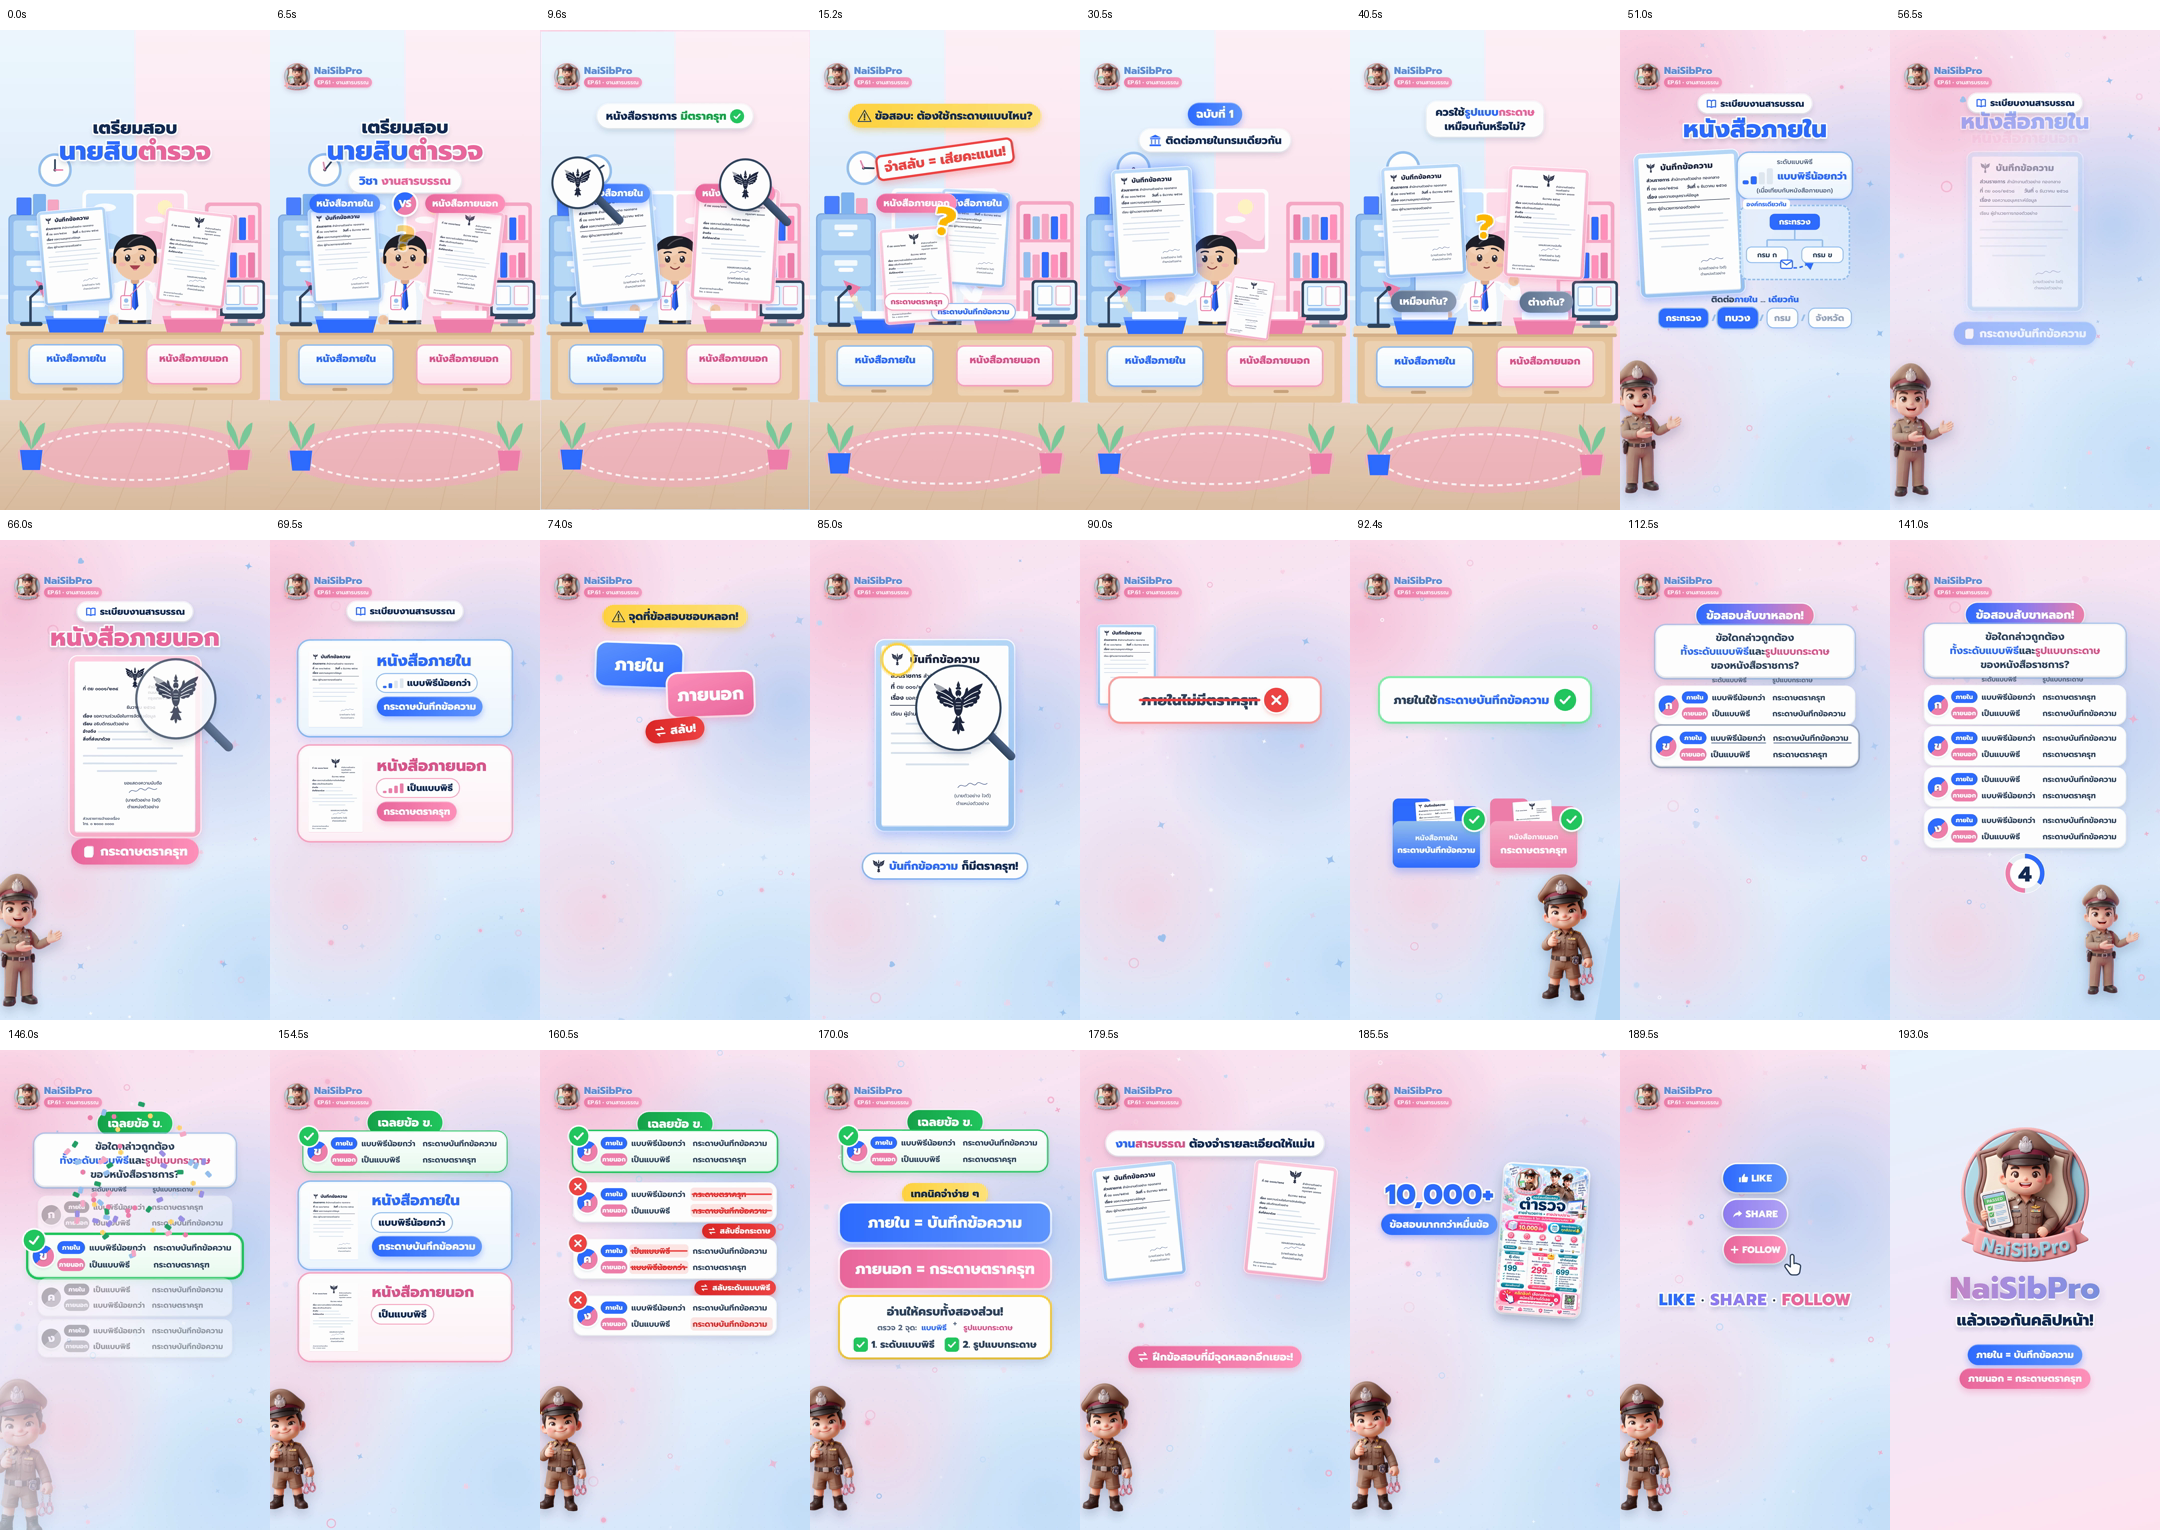
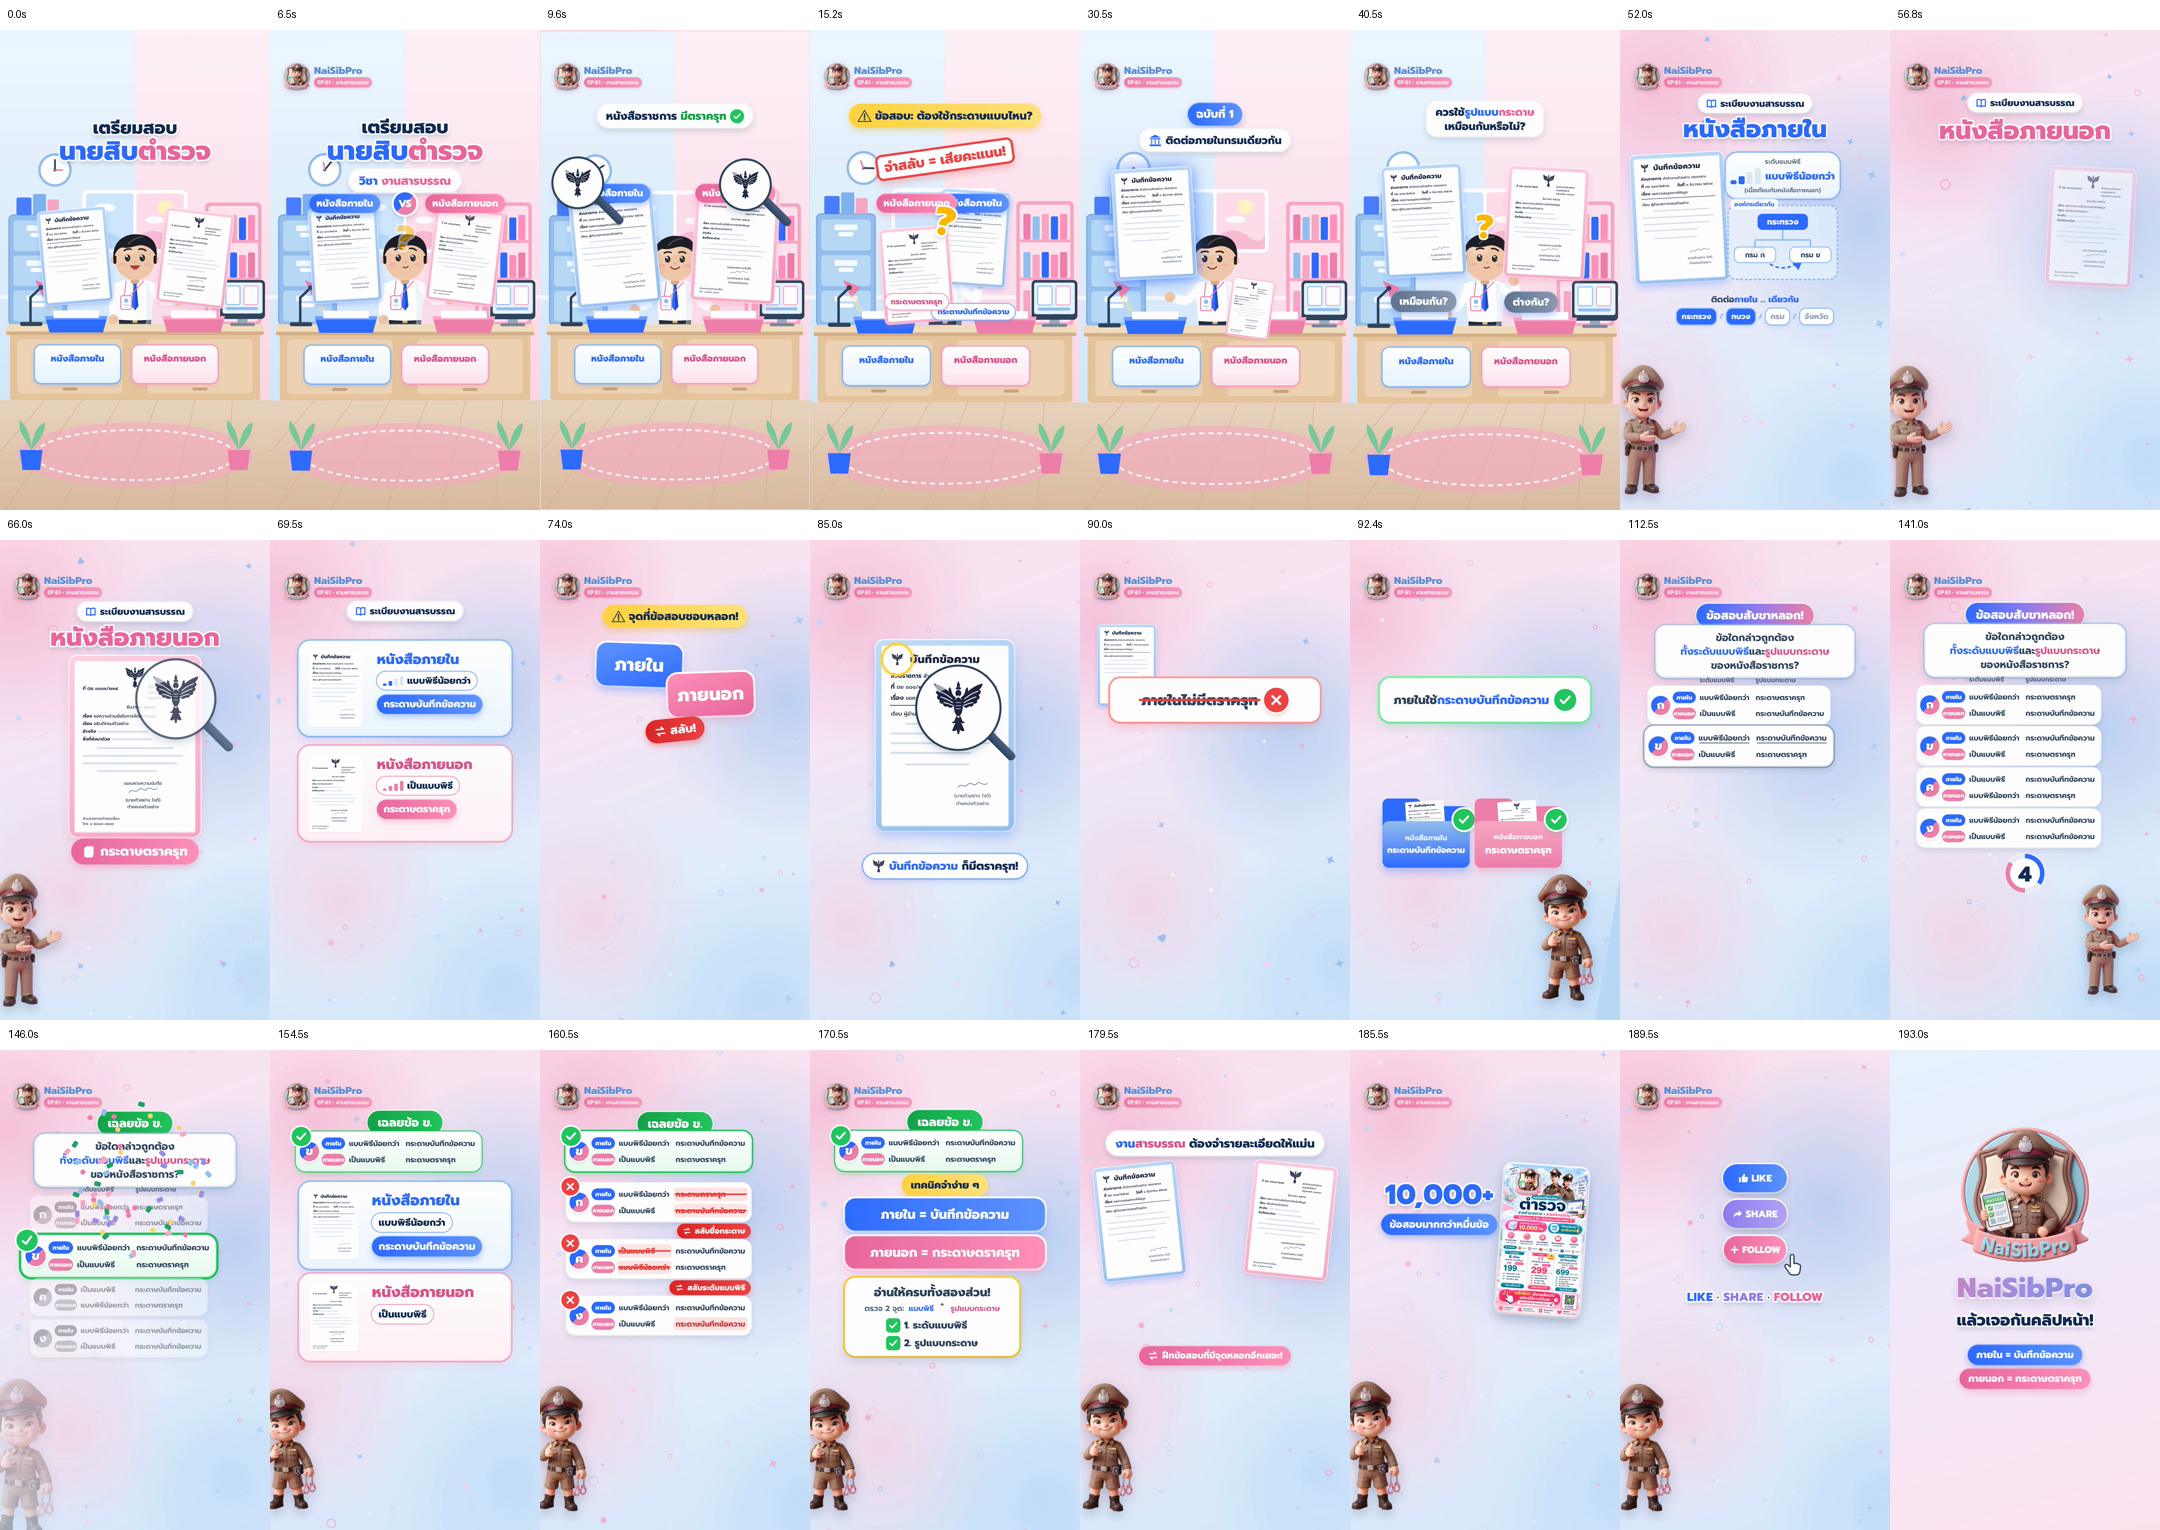
EP.61: rebalance background to blue:pink 49:51
Claude-Session: https://claude.ai/code/session_01AWRbHLdJBdSWEL58Wnx3tw

diff --git a/EP61/source/index.html b/EP61/source/index.html
@@ -7,6 +7,7 @@
 <style>
 :root{--eb:#2F6BFF;--sb:#95BFEF;--cy:#22D3EE;--ib:#E6F4FF;--nv:#142B53;--bp:#EE7FAA;--pp:#F7A8C4;--rp:#FF91BA;--lb:#FFE3EF;--dt:#31445D;--okg:#22C55E;--bad:#EF4444;--yel:#FFD23F}
 body{color:var(--dt)}
+#bg{background:linear-gradient(160deg,#FEDFEC 0%,#F9E3F2 42%,#ECEAF9 70%,#DEE9FB 100%)}
 .sticker{font-weight:800;text-shadow:6px 0 0 #fff,-6px 0 0 #fff,0 6px 0 #fff,0 -6px 0 #fff,5px 5px 0 #fff,-5px 5px 0 #fff,5px -5px 0 #fff,-5px -5px 0 #fff,0 14px 20px rgba(20,43,83,.22);white-space:nowrap;line-height:1.15}
 .row{position:absolute;left:0;width:1080px;display:flex;justify-content:center}
 .pillB,.pillP,.pillN,.pillY,.pillG,.pillR{display:inline-flex;align-items:center;gap:14px;border-radius:999px;font-weight:800;white-space:nowrap;padding:12px 34px}
@@ -430,7 +431,7 @@ function choiceCard([lt, a, b]) {
 const qHdr = add(sQ, `<div class="row c" style="top:258px"><div class="pillN qh" style="font-size:46px;padding:12px 40px;color:#fff;background:linear-gradient(90deg,#2F6BFF,#8E7CF0,#EE7FAA)"><span class="qh-t">ข้อสอบสับขาหลอก!</span></div></div>`);
 const qhT = qHdr.querySelector('.qh-t'), qhBox = qHdr.querySelector('.qh');
 const QLINES = [['ข้อใดกล่าวถูกต้อง', 1.94], ['ทั้งระดับแบบพิธีและรูปแบบกระดาษ', 3.54], ['ของหนังสือราชการ?', 5.10]];
-const qCard = add(sQ, `<div class="abs c" style="left:150px;top:350px;width:780px;padding:16px 30px;border-radius:36px;background:#fff;box-shadow:0 18px 40px rgba(20,43,83,.15),0 0 0 6px #fff,0 0 0 12px rgba(149,191,239,.6);text-align:center;font-weight:700;font-size:40px;line-height:1.38">
+const qCard = add(sQ, `<div class="abs c" style="left:150px;top:350px;width:780px;padding:16px 30px;border-radius:36px;background:#fff;box-shadow:0 18px 40px rgba(20,43,83,.15),0 0 0 6px #fff,0 0 0 12px rgba(247,168,196,.75);text-align:center;font-weight:700;font-size:40px;line-height:1.38">
   ${QLINES.map(([s], i) => `<span class="ql" style="display:block;border-radius:12px">${i === 1 ? '<span style="color:#2F6BFF">ทั้งระดับแบบพิธี</span>และ<span style="color:#D9558C">รูปแบบกระดาษ</span>' : s}</span>`).join('')}</div>`);
 const qLines = [...qCard.querySelectorAll('.ql')];
 const qCol = add(sQ, `<div class="colh c" style="top:540px"><span style="left:205px">ระดับแบบพิธี</span><span style="left:427px">รูปแบบกระดาษ</span></div>`);
